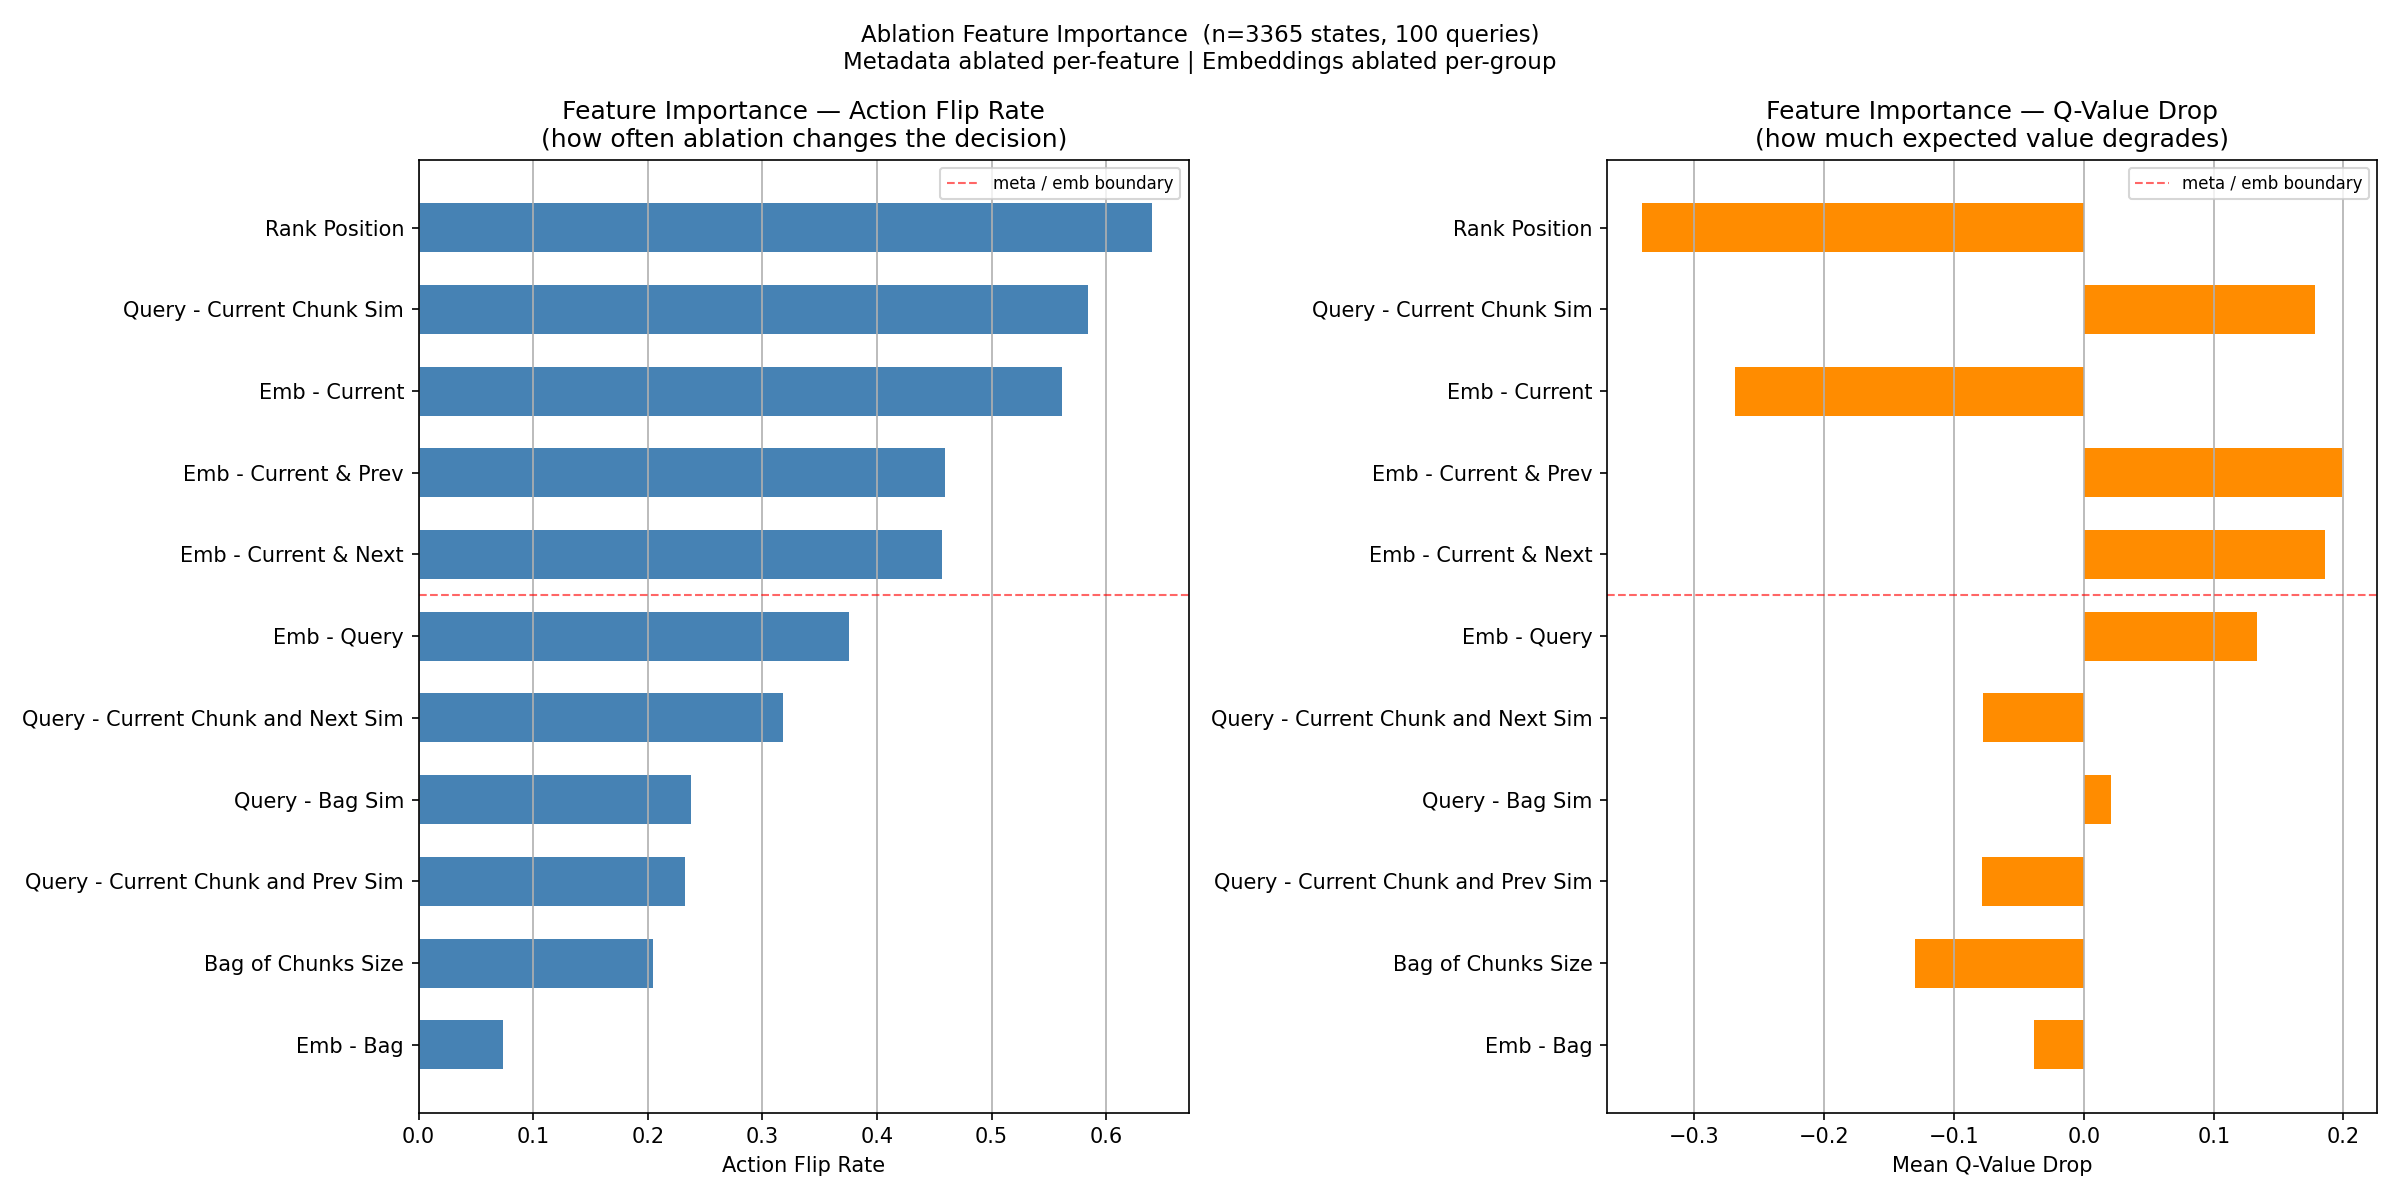
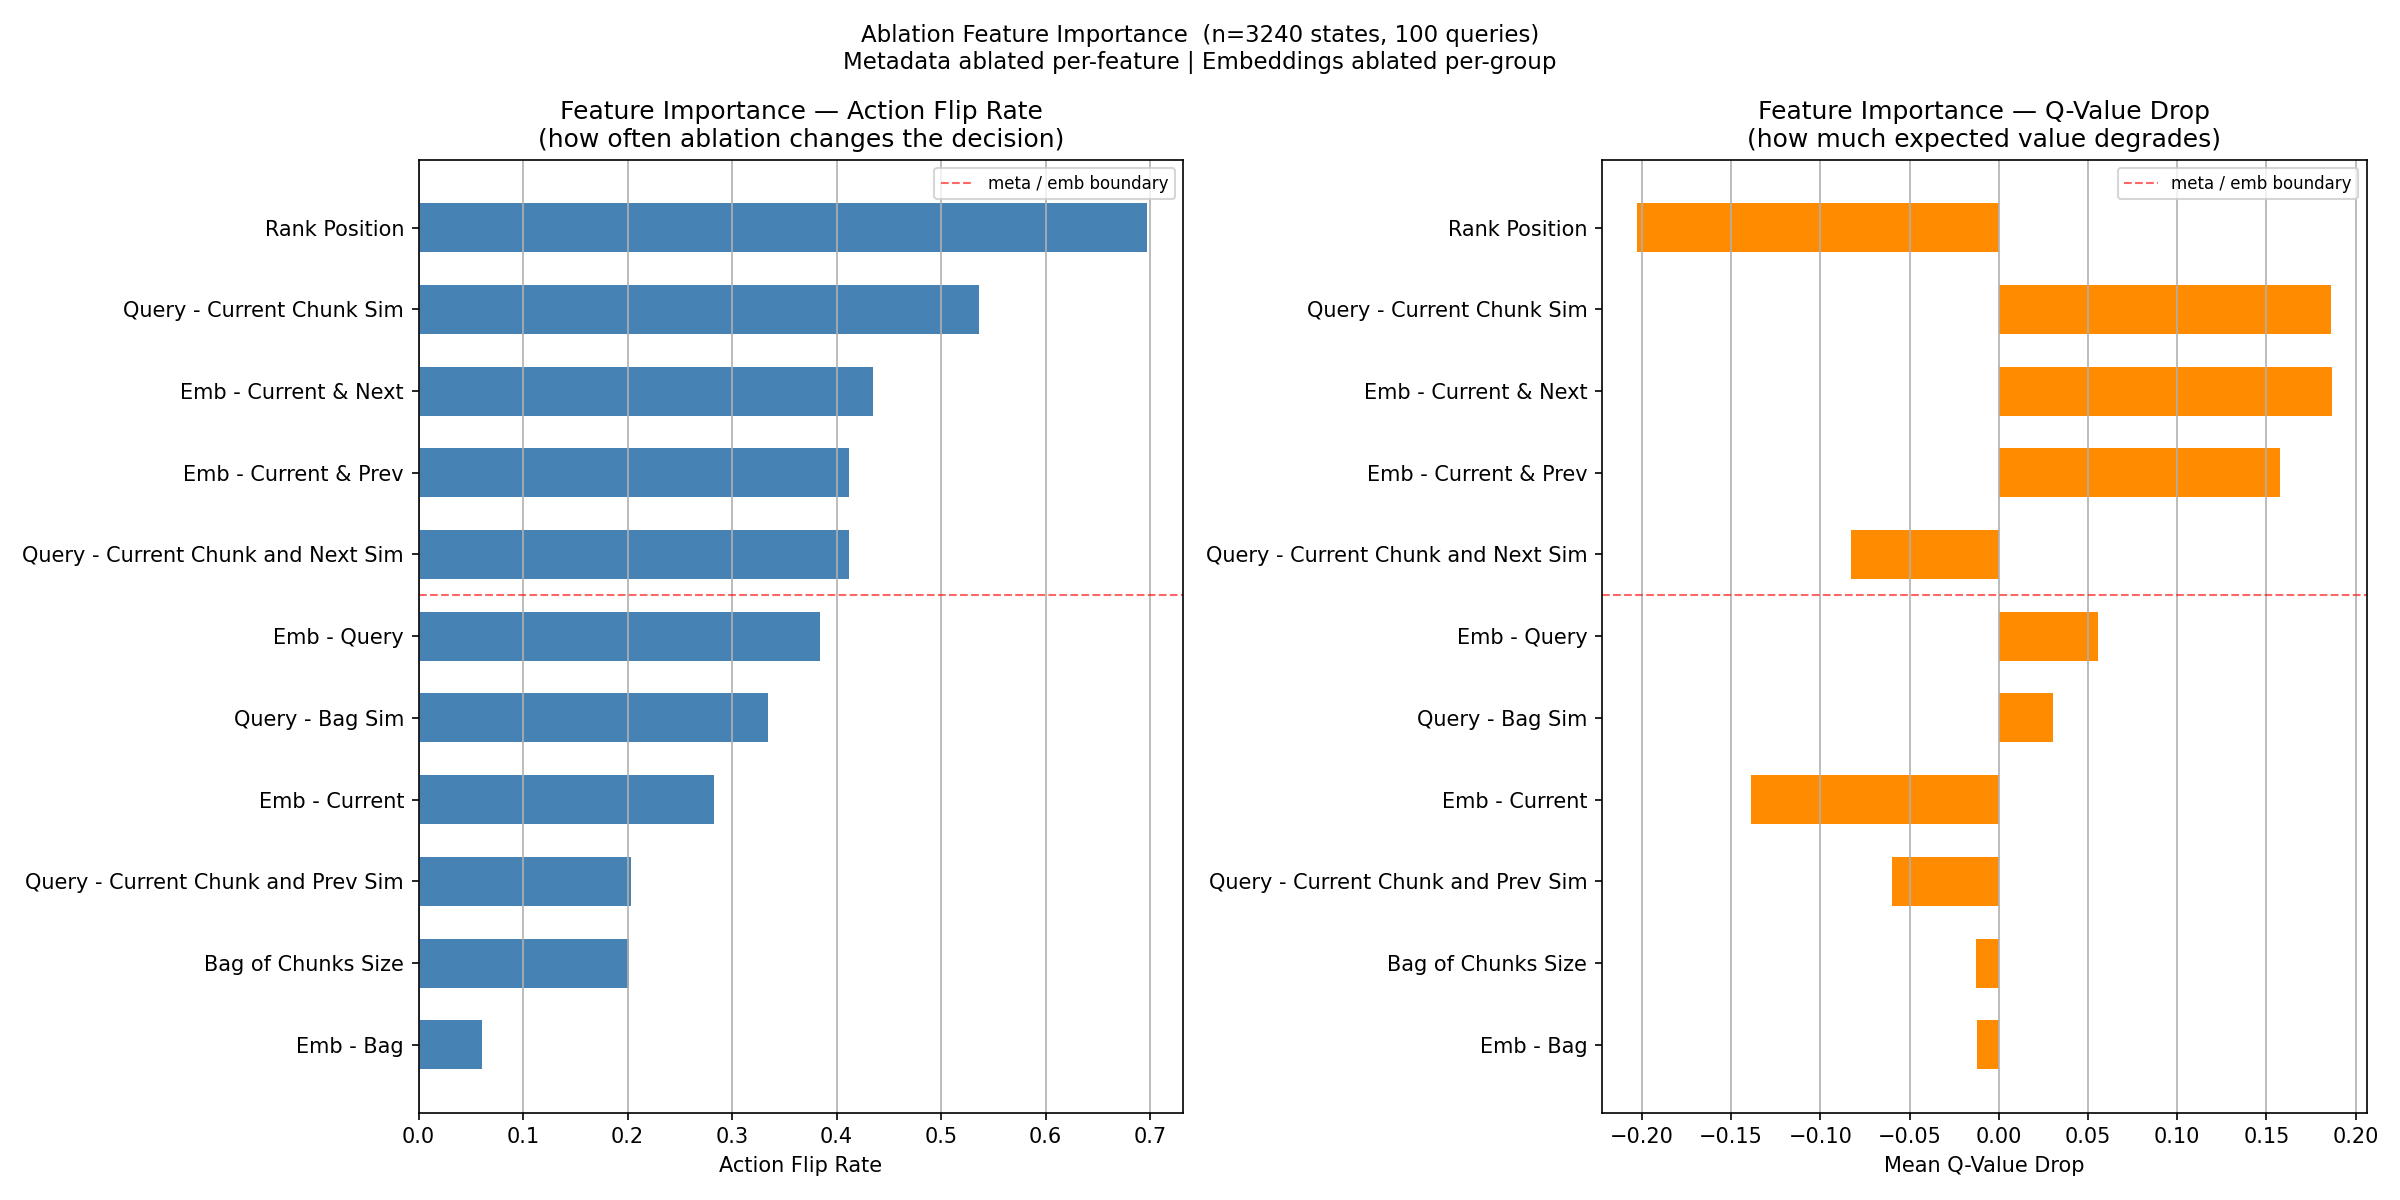
I think so

diff --git a/retrieval/retrieval_5_2_rl_test.py b/retrieval/retrieval_5_2_rl_test.py
@@ -411,7 +411,7 @@ def evaluate(data, query_ids, online_net, device, max_exp_loops):
 
 def test():
 
-    # logging.basicConfig(filename='rl_testing.log', level=logging.INFO, format='%(asctime)s - %(message)s', filemode="w")
+    logging.basicConfig(filename='rl_testing.log', level=logging.INFO, format='%(asctime)s - %(message)s', filemode="w")
 
     pages_path_test = f"data_3_embed/pages_chunked_emb_test.json"
     relevant_path_test = f"data_3_embed/relevant_chunks_emb_test.json"
@@ -427,15 +427,15 @@ def test():
     print(f"Using device: {device}")
 
     model = DuelingDQN(metadata_dim = 6, action_dim = 5, proj_dim = 512, dropout_p = 0).to(device)
-    model.load_state_dict(torch.load("models/rl-chunk-retriever_BEEEEEST copy.pt", map_location="cpu")) #rl-chunk-retriever copy
+    model.load_state_dict(torch.load("models/rl-chunk-retriever_BEEEEEST22.pt", map_location="cpu")) #rl-chunk-retriever copy
     model.eval()
 
-    # avg_val_reward, avg_val_f1_score, avg_val_recall, avg_val_precision, results = evaluate(
-    #     data_test, data_test.query_ids, model, device, 
-    #     max_exp_loops = 1
-    # )
-    # logging.info(f"GREEDY: TEST Reward: {avg_val_reward:.4f}, TEST F1: {avg_val_f1_score:.4f}")
-    # print(f"GREEDY: TEST - Reward: {avg_val_reward:.4f}, F1: {avg_val_f1_score:.4f}")
+    avg_val_reward, avg_val_f1_score, avg_val_recall, avg_val_precision, results = evaluate(
+        data_test, data_test.query_ids, model, device, 
+        max_exp_loops = 1
+    )
+    logging.info(f"GREEDY: TEST Reward: {avg_val_reward:.4f}, TEST F1: {avg_val_f1_score:.4f}")
+    print(f"GREEDY: TEST - Reward: {avg_val_reward:.4f}, F1: {avg_val_f1_score:.4f}")
 
     # output_dir = "data_5_analysis"
     # os.makedirs(output_dir, exist_ok=True)
@@ -456,9 +456,9 @@ def test():
     # data_train.load_cosine_sim()
 
     # compute_stream_feature_importance(
-    #     model, data_train, data_train.query_ids, device, max_exp_loops = 1, n_samples=100 #  + validation_set
+    #     model, data_test, data_test.query_ids, device, max_exp_loops = 1, n_samples=100 #  + validation_set
     # )
 
-    compute_stream_ablation_importance(
-        model, data_test, data_test.query_ids, device, max_exp_loops = 1, n_samples=100 #  + validation_set
-    )
+    # compute_stream_ablation_importance(
+    #     model, data_test, data_test.query_ids, device, max_exp_loops = 1, n_samples=100 #  + validation_set
+    # )
